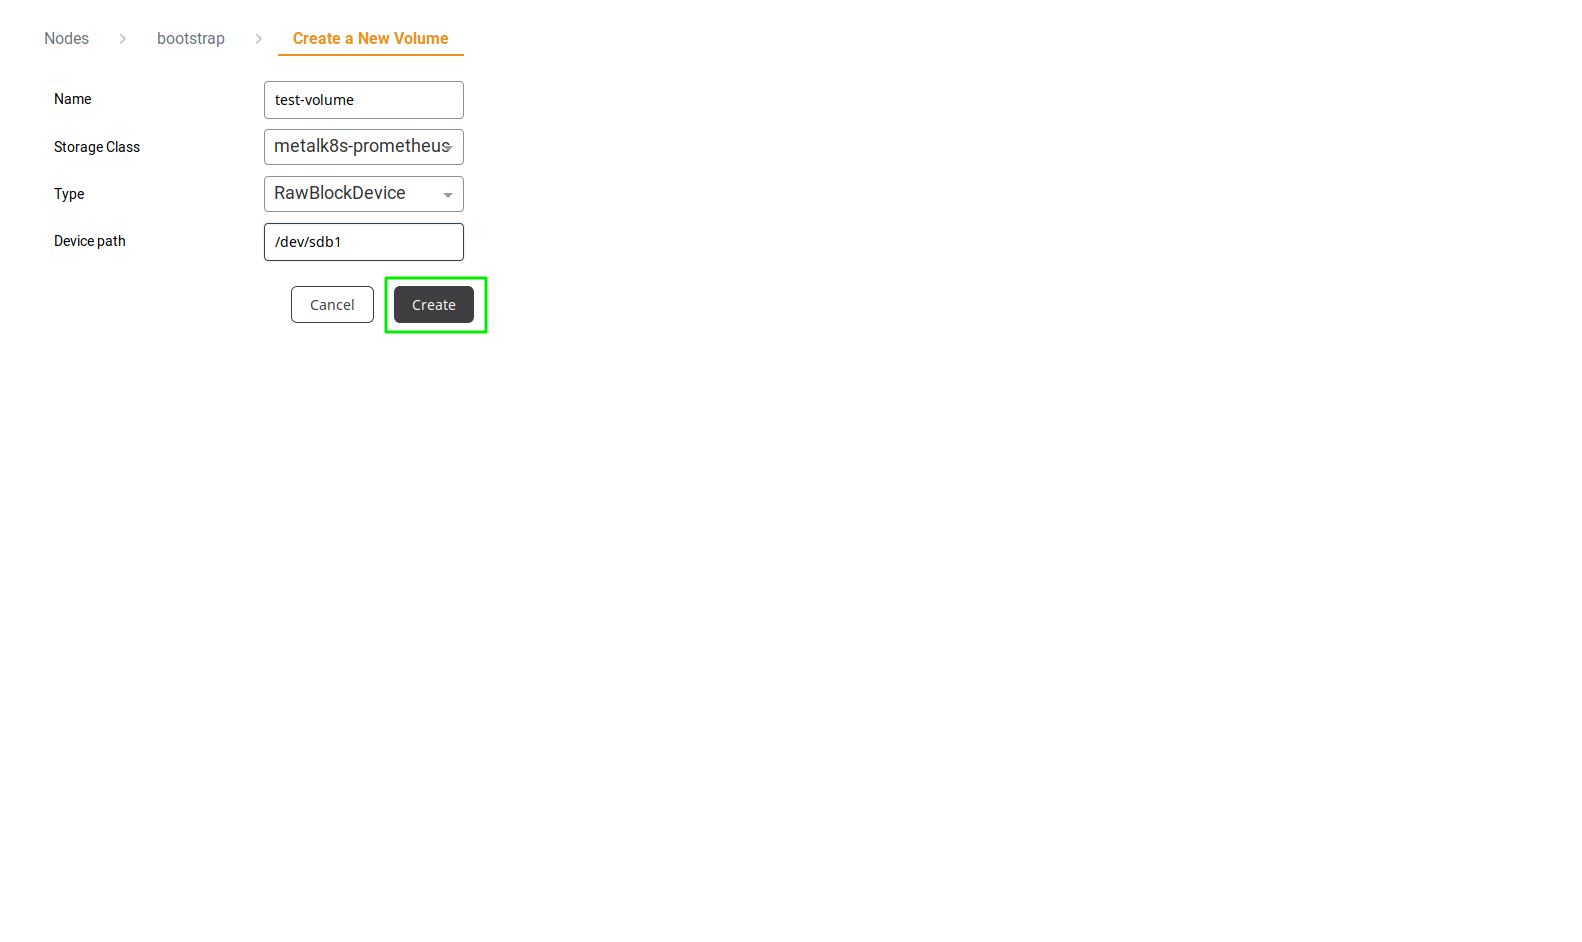
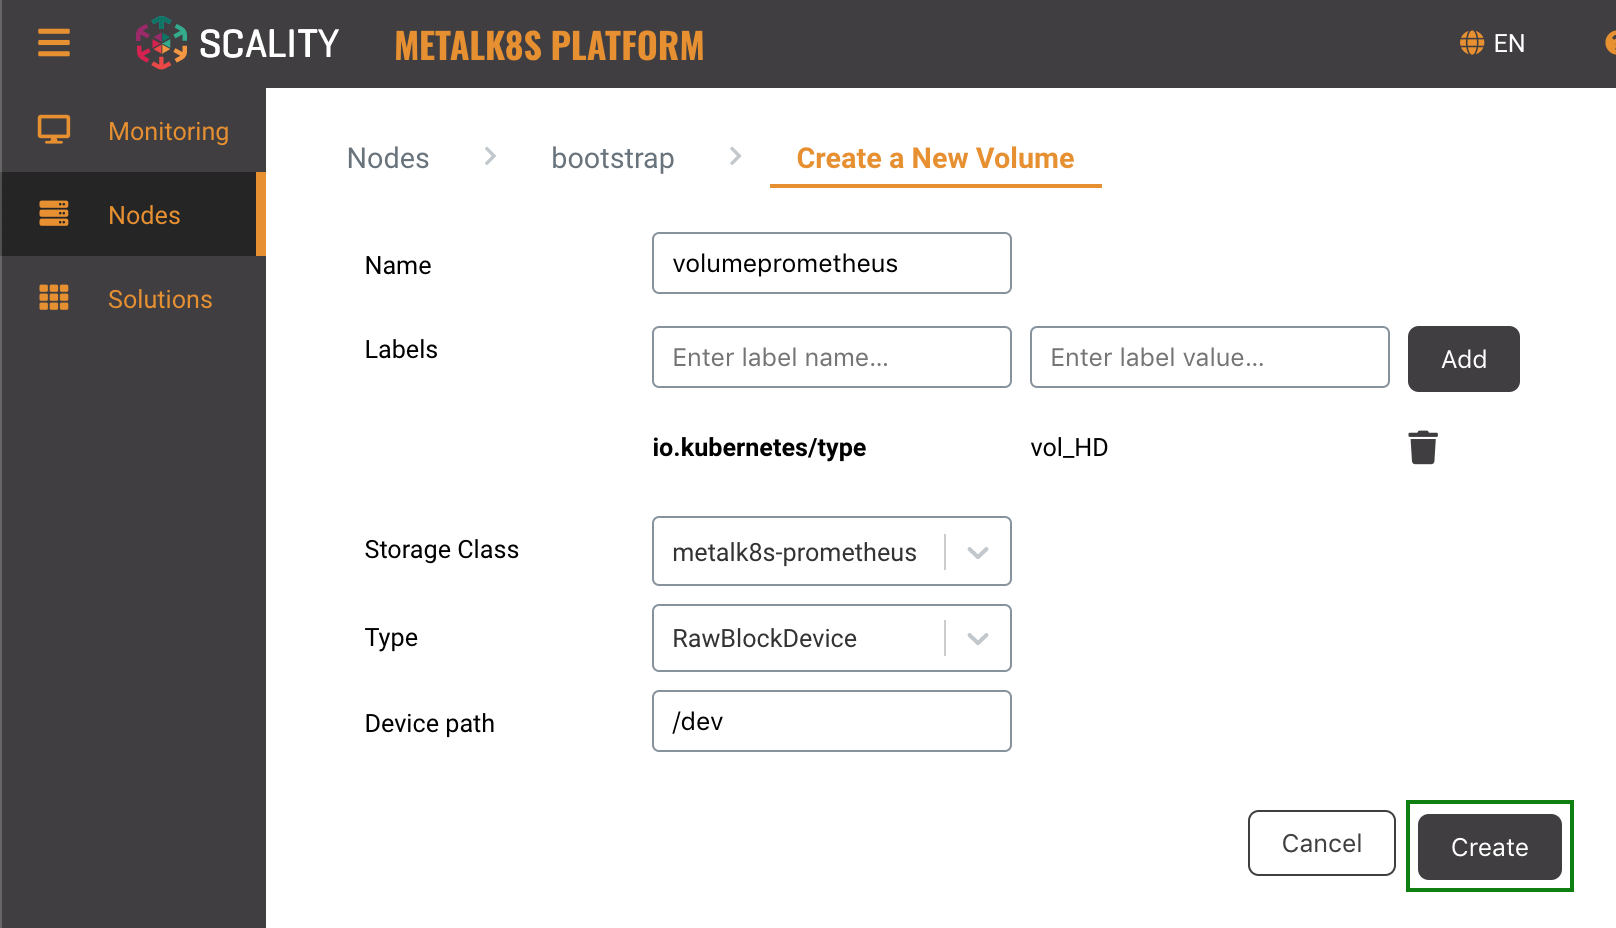
Doc: update volume_creation_deletion_gui screenshots - update docs to help users to provision labels Ref: #1891

diff --git a/docs/operation/volume_management/volume_creation_deletion_gui.rst b/docs/operation/volume_management/volume_creation_deletion_gui.rst
@@ -30,9 +30,10 @@ To access the UI, refer to :ref:`this procedure <quickstart-services-admin-ui>`
 
 #. Fill out the respective fields
 
-    .. image:: /operation/volume_management/img/volume_detail.png
+    .. image:: /operation/volume_management/img/volume_creation.png
 
     - **Name**: Denotes the volume name.
+    - **Labels**: A set of key/value pairs that are used by Persistent Volume Claims to select the right Persistent Volumes.
     - **Storage Class**: Refer to the storage class creation page listed here:
       :doc:`/operation/volume_management/storageclass_creation`
     - **Type**: Metalk8s currently only supports **RawBlockDevice** and
@@ -46,6 +47,11 @@ To access the UI, refer to :ref:`this procedure <quickstart-services-admin-ui>`
 #. You should have a new volume listed in the **Volume list**
 
     .. image:: /operation/volume_management/img/volume_created.png
+
+#. If you click the new volume listed in the **Volume list**,
+   you can get more information about this volume
+
+    .. image:: /operation/volume_management/img/volume_detail.png
 
 
 Volume Deletion
